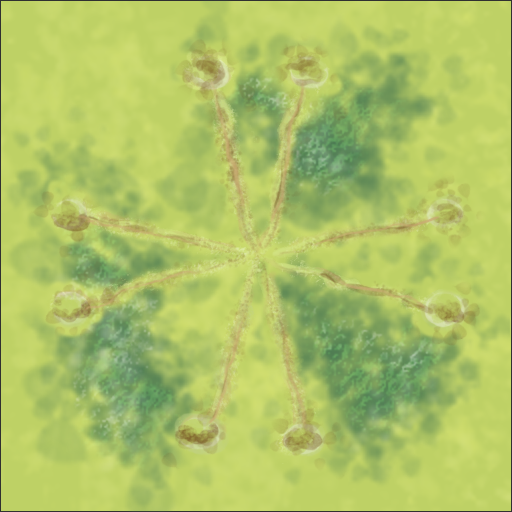
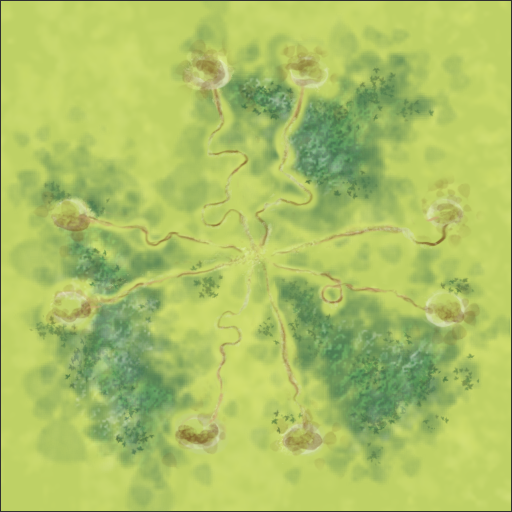
corrected a serious error in hash observer-> need an oldValue per instance, NOT per class. added hovered-state to view base class. only display action points bar for own units and hovered or selected armies. new forest on highest detail level.

diff --git a/client/js/awe/UI/armyview.js b/client/js/awe/UI/armyview.js
@@ -1,4 +1,5 @@
-/* Author: Patrick Fox <patrick@5dlab.com>
+/* Author: Patrick Fox <patrick@5dlab.com>,
+ *         Sascha Lange <sascha@5dlab.com>
  * Copyright (C) 2012 5D Lab GmbH, Freiburg, Germany
  * Do not copy, do not distribute. All rights reserved.
  */
@@ -25,6 +26,7 @@ AWE.UI = (function(module) {
     var _flagShape = null;
     var _selectShape = null;    
     var _healthShape = null;    
+    var _healthBGShape = null;    
     
     that = module.createView(spec, my);
 
@@ -33,6 +35,7 @@ AWE.UI = (function(module) {
       layoutSubviews: AWE.Ext.superior(that, "layoutSubviews"),
       setFrame: AWE.Ext.superior(that, "setFrame"),
       setSelected: AWE.Ext.superior(that, "setSelected"),
+      setHovered: AWE.Ext.superior(that, "setHovered"),
     };
     
     /** overwritten view methods */
@@ -88,8 +91,9 @@ AWE.UI = (function(module) {
       healthBGGraphics.beginStroke(Graphics.getRGB(0, 0, 0));
       healthBGGraphics.beginFill('rgb(127, 127, 127)');
       healthBGGraphics.drawRoundRect(0, 108, 64, 12, 4);
-      var healthBGShape = new Shape(healthBGGraphics);
-      _container.addChild(healthBGShape);
+      
+      _healthBGShape = new Shape(healthBGGraphics);
+      _container.addChild(_healthBGShape);
 
       if (army.get('ap_present') / army.get('ap_max') > 0) {
         if(army.get('ap_present') / army.get('ap_max') > .75) {
@@ -110,6 +114,10 @@ AWE.UI = (function(module) {
         _healthShape = new Shape(healthGraphics);
         _container.addChild(_healthShape);
       }
+      if (_healthShape) {
+        _healthShape.visible = this.selected() || this.hovered() || (_army && _army.isOwn());
+      }
+      _healthBGShape.visible = this.selected() || this.hovered() || (_army && _army.isOwn());
 
       if (!frame) {
         that.resizeToFit();        
@@ -120,6 +128,13 @@ AWE.UI = (function(module) {
     };
     
     that.updateView = function() {
+      
+      // TODO, IMPORTANT: DON'T recreate objects everytime this view is updated. This may be expensive... 
+      //                  should better check, which values have really been changed. In most cases, only
+      //                  the location, target or arrival time will have changed.
+      
+      // BUG: since the stance-view is not recreated and there is no "addChildBelow" used, after one update
+      //      of the army the pole will be in front of the figure, although it should be behind.
       
       var _poleGraphics = new Graphics();
       _poleGraphics.setStrokeStyle(1);
@@ -167,7 +182,12 @@ AWE.UI = (function(module) {
         healthGraphics.drawRoundRect(0, 108, 64 * (_army.get('ap_present') / _army.get('ap_max')), 12, 4);
         _healthShape = new Shape(healthGraphics);
         _container.addChild(_healthShape);
+        
       }
+      if (_healthShape) {
+        _healthShape.visible = this.selected() || this.hovered() || (_army && _army.isOwn());
+      }
+      _healthBGShape.visible = this.selected() || this.hovered() || (_army && _army.isOwn());
     }
     
     that.resizeToFit = function() {
@@ -184,8 +204,21 @@ AWE.UI = (function(module) {
     that.setSelected = function(selected) {
       _super.setSelected(selected);
       _selectShape.visible = that.selected();
+      if (_healthShape) {
+        _healthShape.visible = this.selected() || this.hovered() || (_army && _army.isOwn());
+      }
+      _healthBGShape.visible = this.selected() || this.hovered() || (_army && _army.isOwn());
       this.setNeedsDisplay();
     };
+    
+    that.setHovered = function(hovered) {
+      _super.setHovered(hovered);
+      if (_healthShape) {
+        _healthShape.visible = this.selected() || this.hovered() || (_army && _army.isOwn());
+      }
+      _healthBGShape.visible = this.selected() || this.hovered() || (_army && _army.isOwn());
+      this.setNeedsDisplay();      
+    }
     
     that.displayObject = function() {
       return _container;

diff --git a/client/js/awe/gamestate/character.js b/client/js/awe/gamestate/character.js
@@ -39,8 +39,8 @@ AWE.GS = (function(module) {
     locked_by: null,
     locked_at: null,
         
-    alliance_id: null,              ///< id of the alliance the character is a member of
-    allianceIdObserver: AWE.Partials.attributeHashObserver(module.CharacterAccess, 'alliance_id').observes('alliance_id'),
+    alliance_id: null, old_alliance_id: null, ///< id of the alliance the character is a member of
+    allianceIdObserver: AWE.Partials.attributeHashObserver(module.CharacterAccess, 'alliance_id', 'old_alliance_id').observes('alliance_id'),
     alliance_tag: null,
     
     base_location_id: null,         ///< the location id, where this character has its home base
@@ -125,7 +125,7 @@ AWE.GS = (function(module) {
         this.updateCharacter(this.currentCharacter.get('id'), updateType, callback);
       }
       else { // no current character, need to fetch self
-        
+        var self = this;
         var url = AWE.Config.FUNDAMENTAL_SERVER_BASE+'characters/self';
         return my.fetchEntitiesFromURL(
           url, 
@@ -133,7 +133,14 @@ AWE.GS = (function(module) {
           'self', 
           updateType, 
           null,
-          callback
+          function(character, statusCode, xhr, timestamp) {
+            if (statusCode === AWE.Net.OK) {
+              self.currentCharacter = character;
+            }
+            if (callback) {
+              callback(character, statusCode, xhr, timestamp);
+            }
+          }
         );
       }        
     }

diff --git a/client/js/awe/util/partials.js b/client/js/awe/util/partials.js
@@ -112,7 +112,7 @@ AWE.Partials = (function(module) {
    * if it's not already there. You just have to provide a hook (class, hash),
    * where to put the hash and generated accessor functions. The hash will be 
    * placed in hook.accessHashes[attribute]. */
-  module.attributeHashObserver = function(hook, attribute) {
+  module.attributeHashObserver = function(hook, attribute, oldAttribute) {
         
     /** creates an auto-updated hash for a property. */
     var createAccessHashForAttribute = function() {
@@ -150,18 +150,18 @@ AWE.Partials = (function(module) {
       createAccessHashForAttribute(); 
     }
     
-    var oldValue = null;
-    
     
     return function() {                       // actually construct and return the observer
-      if (this.get(attribute) != oldValue) {
+      var newValue = this.get(attribute);
+      var oldValue = this.get(oldAttribute);
+      if (oldValue != newValue) {
         if (oldValue) {
           hook.accessHashes[attribute].removeEntry(this, oldValue);
         }
-        if (this.get(attribute)) {
+        if (newValue) {
           hook.accessHashes[attribute].addEntry(this);
         }
-        oldValue = this.get(attribute);
+        this.set(oldAttribute, newValue);
       };
     }
     

diff --git a/client/js/awe/UI/view.js b/client/js/awe/UI/view.js
@@ -38,6 +38,7 @@ AWE.UI = (function(module) {
     var _autoscales = false;   ///< whether the view automatically adapts its internal scale when being resized.
     var _alpha = 1.;           ///< alpha value (transparency) of the view. Continuous value from 0 to 1. 0: transparent, 1: opaque.
     var _selected = false;     ///< selection state of view
+    var _hovered = false;
   
   
     // protected attributes and methods //////////////////////////////////////
@@ -187,6 +188,15 @@ AWE.UI = (function(module) {
 
     that.selected = function() {
       return _selected;
+    }
+    
+    that.setHovered = function(hovered) {
+      _hovered = hovered;
+      this.needsDisplay();
+    }
+    
+    that.hovered = function() {
+      return _hovered;
     }
 
     that.layoutSubviews = function() {

diff --git a/client/js/awe/gamestate/army.js b/client/js/awe/gamestate/army.js
@@ -21,10 +21,10 @@ AWE.GS = (function(module) {
     typeName: 'Army',
     name: null, 
     
-    location_id: null,
-    locationIdObserver: AWE.Partials.attributeHashObserver(module.ArmyAccess, 'location_id').observes('location_id'),
-    region_id: null,
-    regionIdObserver: AWE.Partials.attributeHashObserver(module.ArmyAccess, 'region_id').observes('region_id'),
+    location_id: null, old_location_id: null,
+    locationIdObserver: AWE.Partials.attributeHashObserver(module.ArmyAccess, 'location_id', 'old_location_id').observes('location_id'),
+    region_id: null, old_region_id: null,
+    regionIdObserver: AWE.Partials.attributeHashObserver(module.ArmyAccess, 'region_id', 'old_region_id').observes('region_id'),
 
     owner_id: null,
     owner_name: null,

diff --git a/client/js/awe/controller/mapcontroller.js b/client/js/awe/controller/mapcontroller.js
@@ -588,6 +588,7 @@ AWE.Controller = (function(module) {
       if (view !== _selectedHighlightView) {
         var center = view.center();
         _highlightedView = view;
+        _highlightedView.setHovered(true);
         
         if (view.typeName() === 'FortressView') {
           _actionViews.highlightImage = AWE.UI.createFortressHighlightView();
@@ -609,6 +610,7 @@ AWE.Controller = (function(module) {
       if (_actionViews.highlightImage) {
         _stages[2].removeChild(_actionViews.highlightImage.displayObject());
         delete _actionViews.highlightImage;
+        _highlightedView.setHovered(false);
         _highlightedView = null;
         _action = true;
       }

diff --git a/client/js/script.js b/client/js/script.js
@@ -79,7 +79,7 @@ window.WACKADOO = Ember.Application.create(function() {
       
       _numAssets += 1;  // ok, current character is not really an asset, but it needs to be loaded necessarily as first thing at start
       AWE.GS.CharacterManager.updateCurrentCharacter(AWE.GS.ENTITY_UPDATE_TYPE_FULL, function(entity, statusCode) {
-        if (statusCode === AWE.Net.OK) {
+        if (statusCode === AWE.Net.OK && AWE.GS.CharacterManager.currentCharacter) {
           console.log('INFO: playing as character ' + entity + '.');
           assetLoaded();
         }
